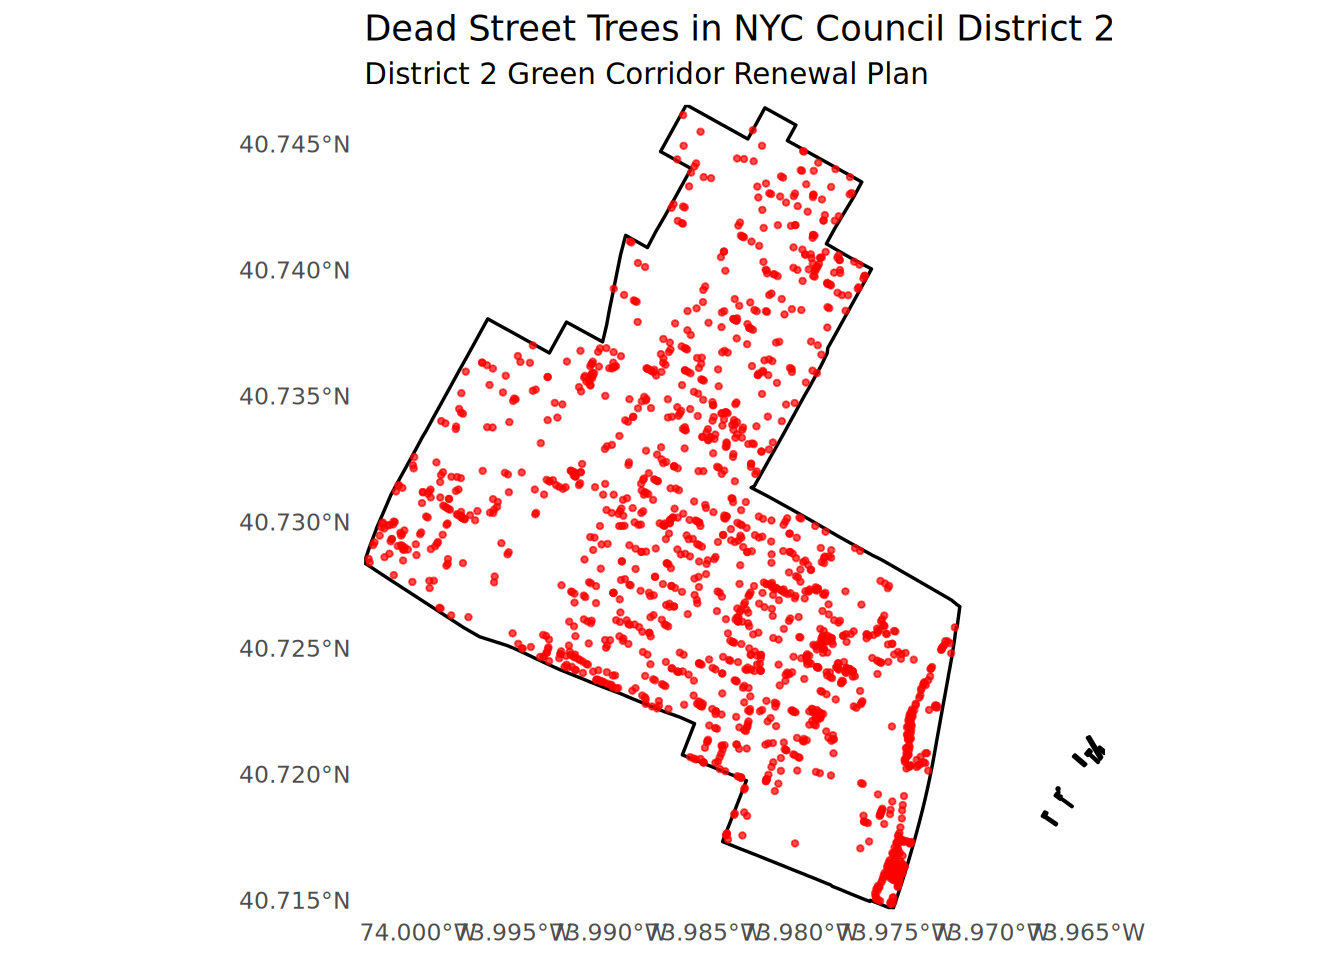
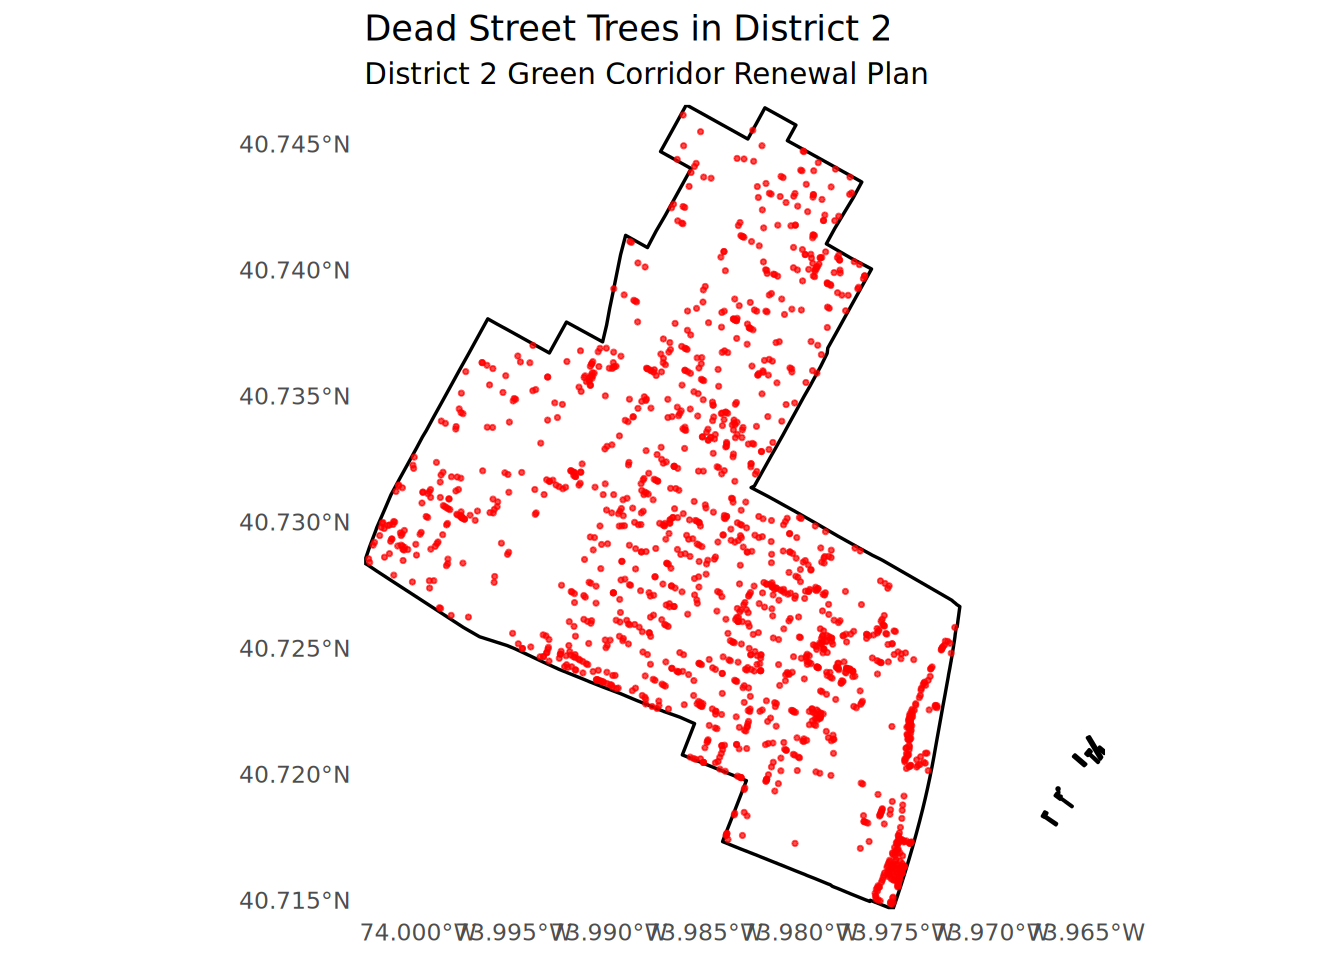
saturday save

diff --git a/docs/mp03.html b/docs/mp03.html
@@ -176,7 +176,7 @@ pre > code.sourceCode > span > a:first-child::before { text-decoration: underlin
 </div>
 </div>
 <p>As you could see, there are 51 city council districts in New York City.</p>
-<p>Once we have visualized all the districts, next we are going to visualize the trees that within each one.</p>
+<p>Once we have visualized all the districts, next we are going to visualize the trees that exist within each one.</p>
 <div class="cell">
 <div class="cell-output-display">
 <div>
@@ -234,7 +234,7 @@ pre > code.sourceCode > span > a:first-child::before { text-decoration: underlin
 </details>
 </div>
 <p>After running the code, we can conclude that it is district 51 with 70,965 trees.</p>
-<p>Next, we will run code to figure the districts with the highest density of trees.</p>
+<p>Next, we will run code to figure out the districts with the highest density of trees.</p>
 <div class="cell">
 <details class="code-fold">
 <summary>Code</summary>
@@ -272,8 +272,8 @@ pre > code.sourceCode > span > a:first-child::before { text-decoration: underlin
 <span id="cb4-32"><a href="#cb4-32" aria-hidden="true" tabindex="-1"></a>)</span></code></pre></div><button title="Copy to Clipboard" class="code-copy-button"><i class="bi"></i></button></div>
 </details>
 <div class="cell-output-display">
-<div class="datatables html-widget html-fill-item" id="htmlwidget-e2eea149f1575490e5f4" style="width:100%;height:auto;"></div>
-<script type="application/json" data-for="htmlwidget-e2eea149f1575490e5f4">{"x":{"filter":"none","vertical":false,"caption":"<caption>Top 10 NYC Council Districts by Tree Density<\/caption>","data":[["1","2","3","4","5","6","7","8","9","10"],[7,39,2,9,5,16,14,10,35,41],[15648,32403,11563,13455,8326,13497,10905,15309,15109,14416],[55186223.93576999,118294040.3623222,48321708.97441956,56263710.17517462,37752163.23719384,62082568.94205672,52584884.00910233,76998093.42629765,79441182.04492629,79271986.83632563],[0.0002835490251736077,0.0002739191247568602,0.0002392920334444545,0.000239141712448547,0.0002205436532918234,0.0002174040190346682,0.0002073789874313,0.0001988231048169229,0.0001901910270098376,0.0001818549096008529],[283.5490251736077,273.9191247568602,239.2920334444545,239.1417124485471,220.5436532918234,217.4040190346682,207.3789874313,198.8231048169229,190.1910270098376,181.8549096008529]],"container":"<table class=\"display\">\n  <thead>\n    <tr>\n      <th> <\/th>\n      <th>Council District<\/th>\n      <th>Tree Count<\/th>\n      <th>Area (m²)<\/th>\n      <th>density_per_m2<\/th>\n      <th>Trees per km²<\/th>\n    <\/tr>\n  <\/thead>\n<\/table>","options":{"pageLength":10,"autoWidth":true,"columnDefs":[{"className":"dt-right","targets":[1,2,3,4,5]},{"orderable":false,"targets":0},{"name":" ","targets":0},{"name":"Council District","targets":1},{"name":"Tree Count","targets":2},{"name":"Area (m²)","targets":3},{"name":"density_per_m2","targets":4},{"name":"Trees per km²","targets":5}],"order":[],"orderClasses":false}},"evals":[],"jsHooks":[]}</script>
+<div class="datatables html-widget html-fill-item" id="htmlwidget-faaf4159818cfe2ddd46" style="width:100%;height:auto;"></div>
+<script type="application/json" data-for="htmlwidget-faaf4159818cfe2ddd46">{"x":{"filter":"none","vertical":false,"caption":"<caption>Top 10 NYC Council Districts by Tree Density<\/caption>","data":[["1","2","3","4","5","6","7","8","9","10"],[7,39,2,9,5,16,14,10,35,41],[15648,32403,11563,13455,8326,13497,10905,15309,15109,14416],[55186223.93576999,118294040.3623222,48321708.97441956,56263710.17517462,37752163.23719384,62082568.94205672,52584884.00910233,76998093.42629765,79441182.04492629,79271986.83632563],[0.0002835490251736077,0.0002739191247568602,0.0002392920334444545,0.000239141712448547,0.0002205436532918234,0.0002174040190346682,0.0002073789874313,0.0001988231048169229,0.0001901910270098376,0.0001818549096008529],[283.5490251736077,273.9191247568602,239.2920334444545,239.1417124485471,220.5436532918234,217.4040190346682,207.3789874313,198.8231048169229,190.1910270098376,181.8549096008529]],"container":"<table class=\"display\">\n  <thead>\n    <tr>\n      <th> <\/th>\n      <th>Council District<\/th>\n      <th>Tree Count<\/th>\n      <th>Area (m²)<\/th>\n      <th>density_per_m2<\/th>\n      <th>Trees per km²<\/th>\n    <\/tr>\n  <\/thead>\n<\/table>","options":{"pageLength":10,"autoWidth":true,"columnDefs":[{"className":"dt-right","targets":[1,2,3,4,5]},{"orderable":false,"targets":0},{"name":" ","targets":0},{"name":"Council District","targets":1},{"name":"Tree Count","targets":2},{"name":"Area (m²)","targets":3},{"name":"density_per_m2","targets":4},{"name":"Trees per km²","targets":5}],"order":[],"orderClasses":false}},"evals":[],"jsHooks":[]}</script>
 </div>
 </div>
 <p>The table above shows us different characteristics of each district. At the end, you are able to see that district 7 is the most dense area, with about 284 trees per square kilometer.</p>
@@ -344,12 +344,6 @@ pre > code.sourceCode > span > a:first-child::before { text-decoration: underlin
 <section id="project-scope" class="level2">
 <h2 class="anchored" data-anchor-id="project-scope">Project Scope</h2>
 <div class="cell">
-<div class="cell-output cell-output-stdout">
-<pre><code># A tibble: 1 × 4
-  CounDist total_trees dead_trees fraction_dead
-     &lt;int&gt;       &lt;int&gt;      &lt;int&gt;         &lt;dbl&gt;
-1        2       11563       1576         0.136</code></pre>
-</div>
 <div class="cell-output-display">
 <div>
 <figure class="figure">
@@ -358,14 +352,17 @@ pre > code.sourceCode > span > a:first-child::before { text-decoration: underlin
 </div>
 </div>
 </div>
-<p>District 2 contains <em>11,563</em> trees, of which <em>1,576</em> (about <em>13.6%</em>) are dead.</p>
+<p>In the visualization above, you are able to see all the dead trees located around District 2. The district contains <em>11,563</em> trees, of which <em>1,576</em> (about <em>13.6%</em>) are dead.</p>
 <p>The proposed renewal effort would:</p>
-<p>Remove all identified dead trees</p>
-<p>Replace them with new plantings, with a recommended buffer of ~20% additional trees to strengthen long-term canopy resilience</p>
-<p>Prioritize replanting along continuous pedestrian corridors, including 1st Avenue, 2nd Avenue, East 14th Street, and residential side streets with limited shade coverage.</p>
+<ul>
+<li><p>Remove all identified dead trees</p></li>
+<li><p>Replace them with new plantings, with a recommended buffer of ~20% additional trees to strengthen long-term canopy resilience</p></li>
+<li><p>Prioritize replanting along continuous pedestrian corridors, including 1st Avenue, 2nd Avenue, East 14th Street, and residential side streets with limited shade coverage.</p></li>
+</ul>
 </section>
 <section id="why-district-2-is-the-right-place-for-this-investment" class="level2">
 <h2 class="anchored" data-anchor-id="why-district-2-is-the-right-place-for-this-investment">Why District 2 Is the Right Place for This Investment</h2>
+<p>When compared to nearby districts — notably Districts 1, 3, and 4 — District 2 stands out:</p>
 <div class="cell">
 <div class="cell-output-display">
 <div>
@@ -375,8 +372,25 @@ pre > code.sourceCode > span > a:first-child::before { text-decoration: underlin
 </div>
 </div>
 </div>
-<p>When compared to nearby districts — notably Districts 1, 3, and 4 — District 2 stands out:</p>
-<p>It has a higher fraction of dead trees than at least two adjacent districts</p>
+<div class="cell">
+<div class="cell-output-display">
+<div>
+<figure class="figure">
+<p><img src="mp03_files/figure-html/unnamed-chunk-12-1.png" class="img-fluid figure-img" width="672"></p>
+</figure>
+</div>
+</div>
+</div>
+<p>District 2 is the most dense district with trees compared to nearby districts. To go along with the high density, it has the most amount of dead trees, therefore resulting in the highest fraction out of the 4. Below now is a visualization to aid the reader visualize the results from the graphs above on a map.</p>
+<div class="cell">
+<div class="cell-output-display">
+<div>
+<figure class="figure">
+<p><img src="mp03_files/figure-html/unnamed-chunk-13-1.png" class="img-fluid figure-img" width="672"></p>
+</figure>
+</div>
+</div>
+</div>
 <p>When adjusting for land area, District 2 shows a notably dense concentration of tree mortality in high-traffic walkable areas</p>
 <p>Sidewalk conditions and aging infrastructure contribute to elevated risk of tree failure, making replacement urgent from a public safety perspective</p>
 <p>Unlike District 3, which retains several mature canopies, District 2’s urban forest is fragmented, with clear gaps along south–north corridors</p>
@@ -386,7 +400,7 @@ pre > code.sourceCode > span > a:first-child::before { text-decoration: underlin
 <h2 class="anchored" data-anchor-id="conclusion">Conclusion</h2>
 <p>The District 2 Green Corridor Renewal Plan aims to restore the shaded, walkable, and environmentally resilient streets that residents deserve. By replacing dead trees with stronger, climate-ready species and focusing on pedestrian corridors, this initiative addresses safety, heat exposure, stormwater management, and long-term canopy continuity. An investment in District 2’s green corridors is an investment in the lives, comfort, and future of its communities.</p>
 <hr>
-<p>Last Updated: Saturday 11 15, 2025 at 07:36AM</p>
+<p>Last Updated: Saturday 11 15, 2025 at 21:32PM</p>
 
 
 </section>
